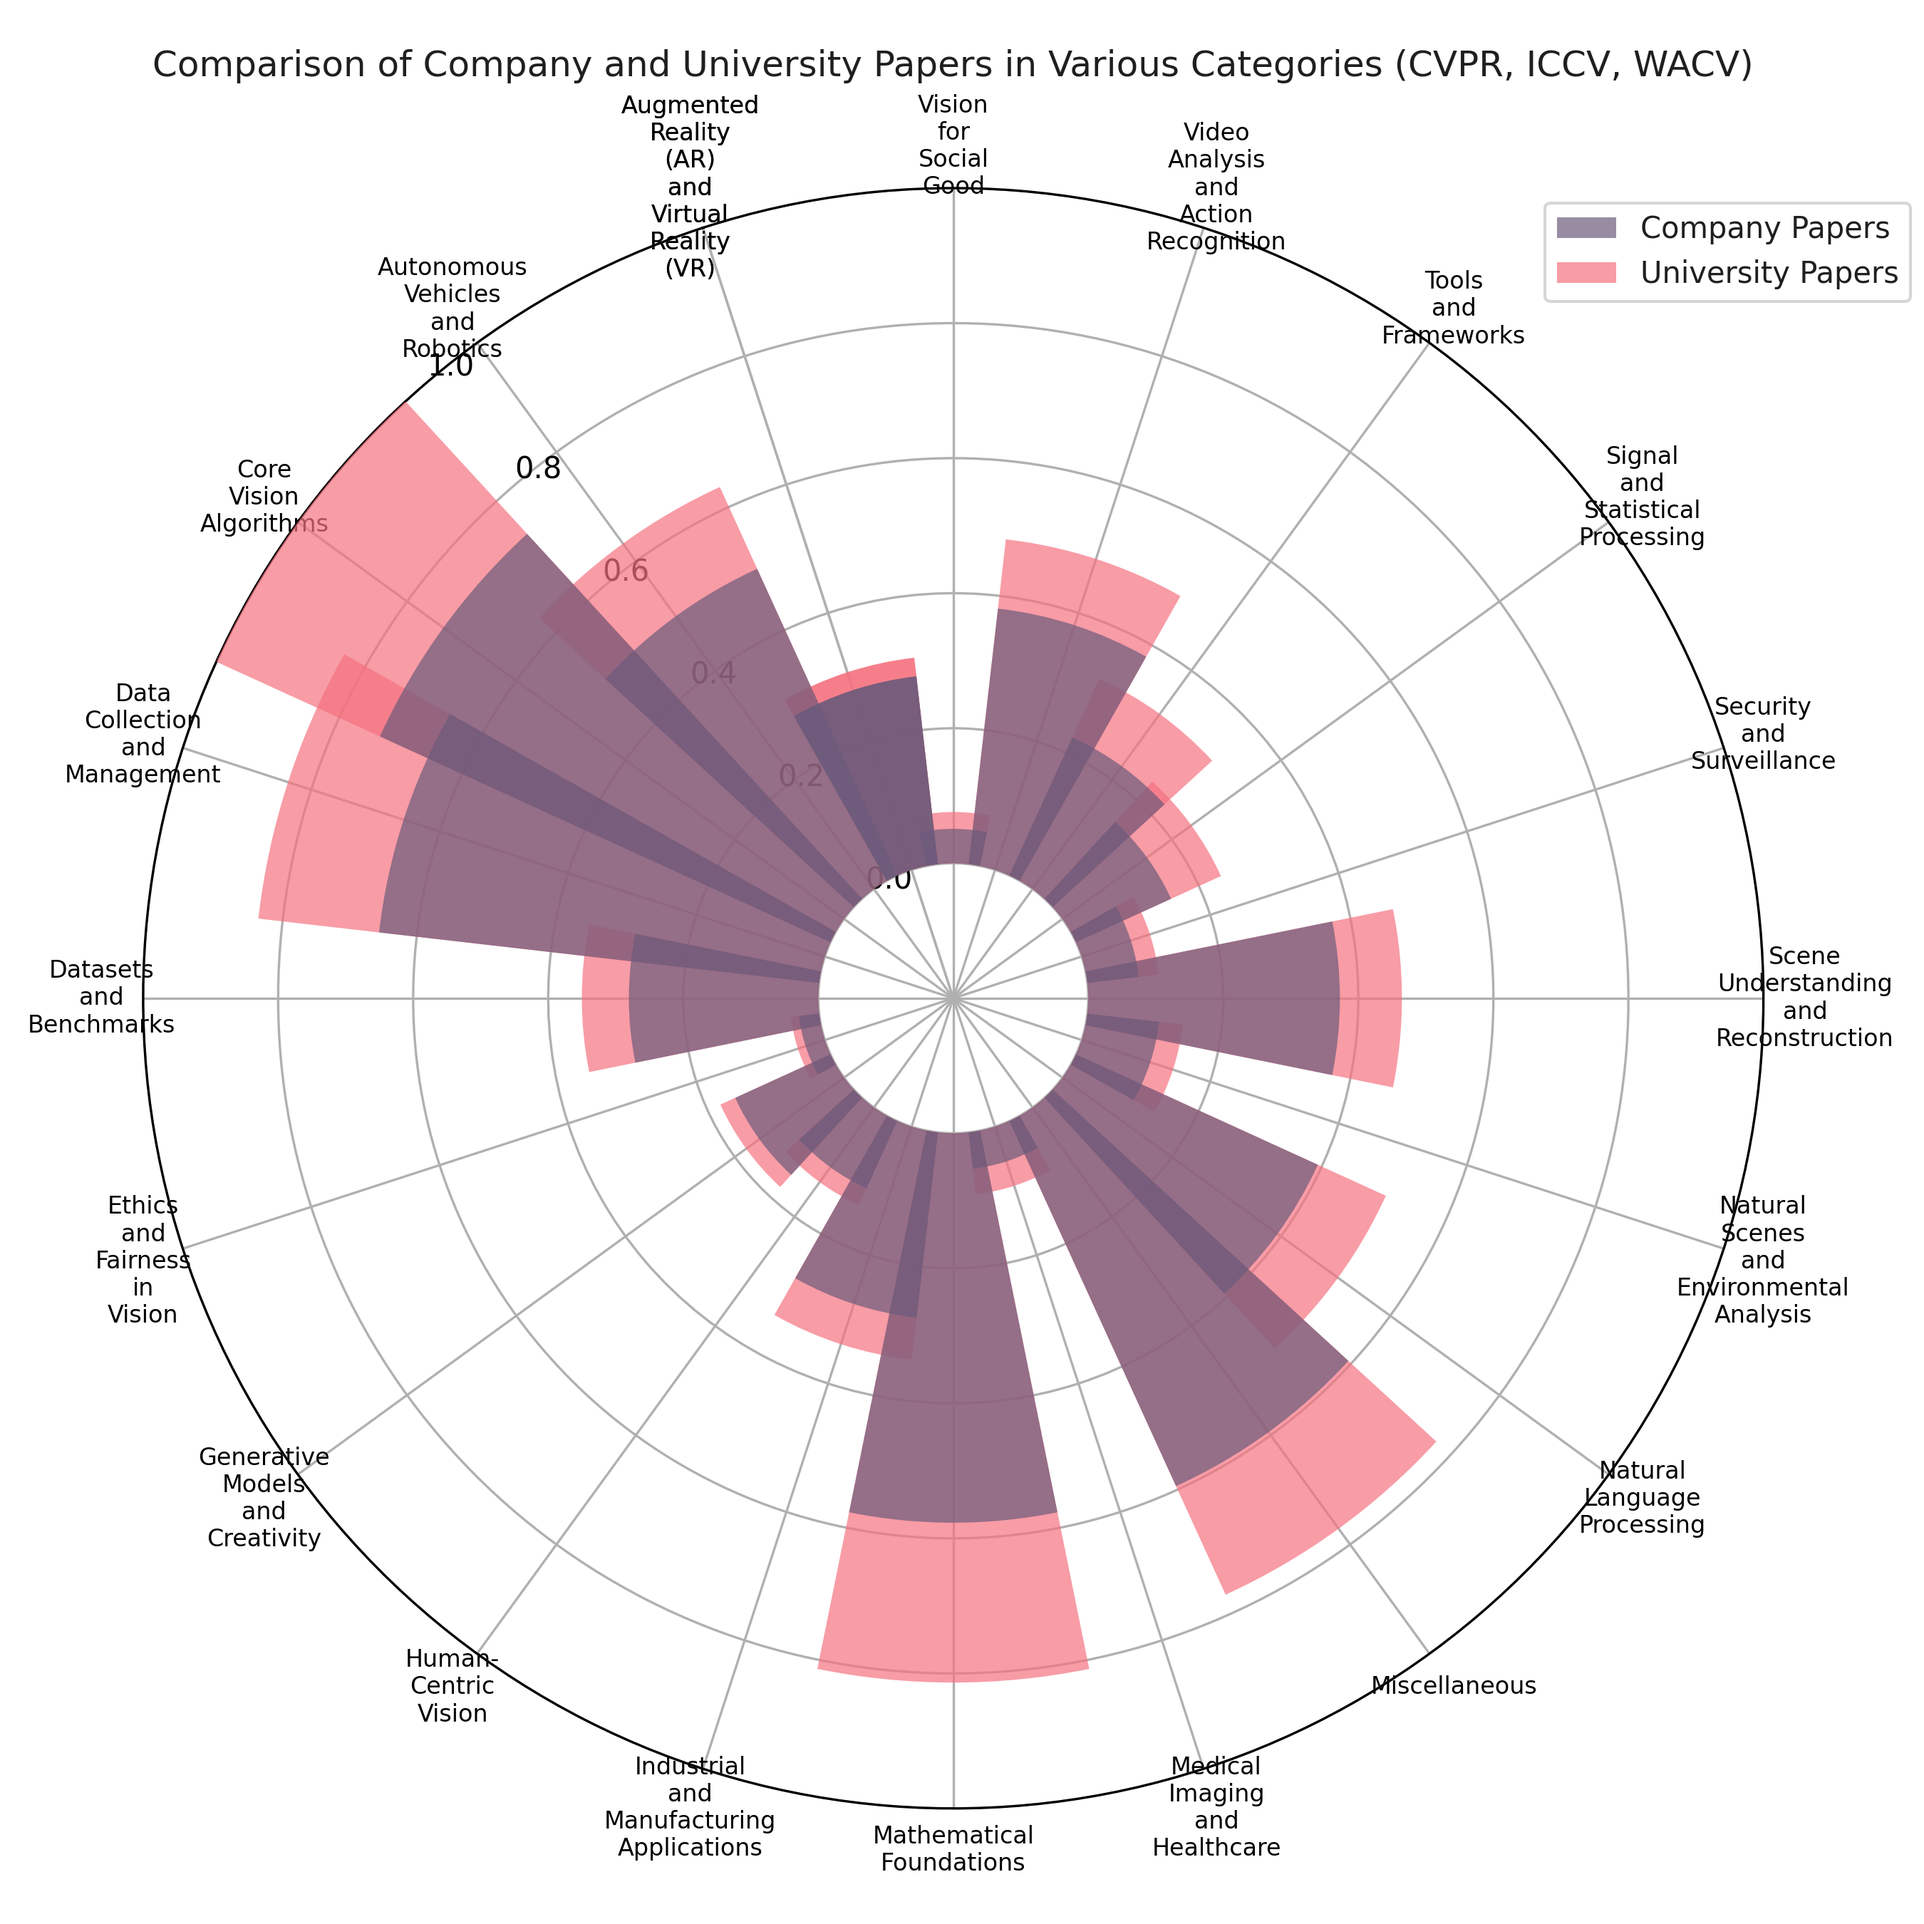
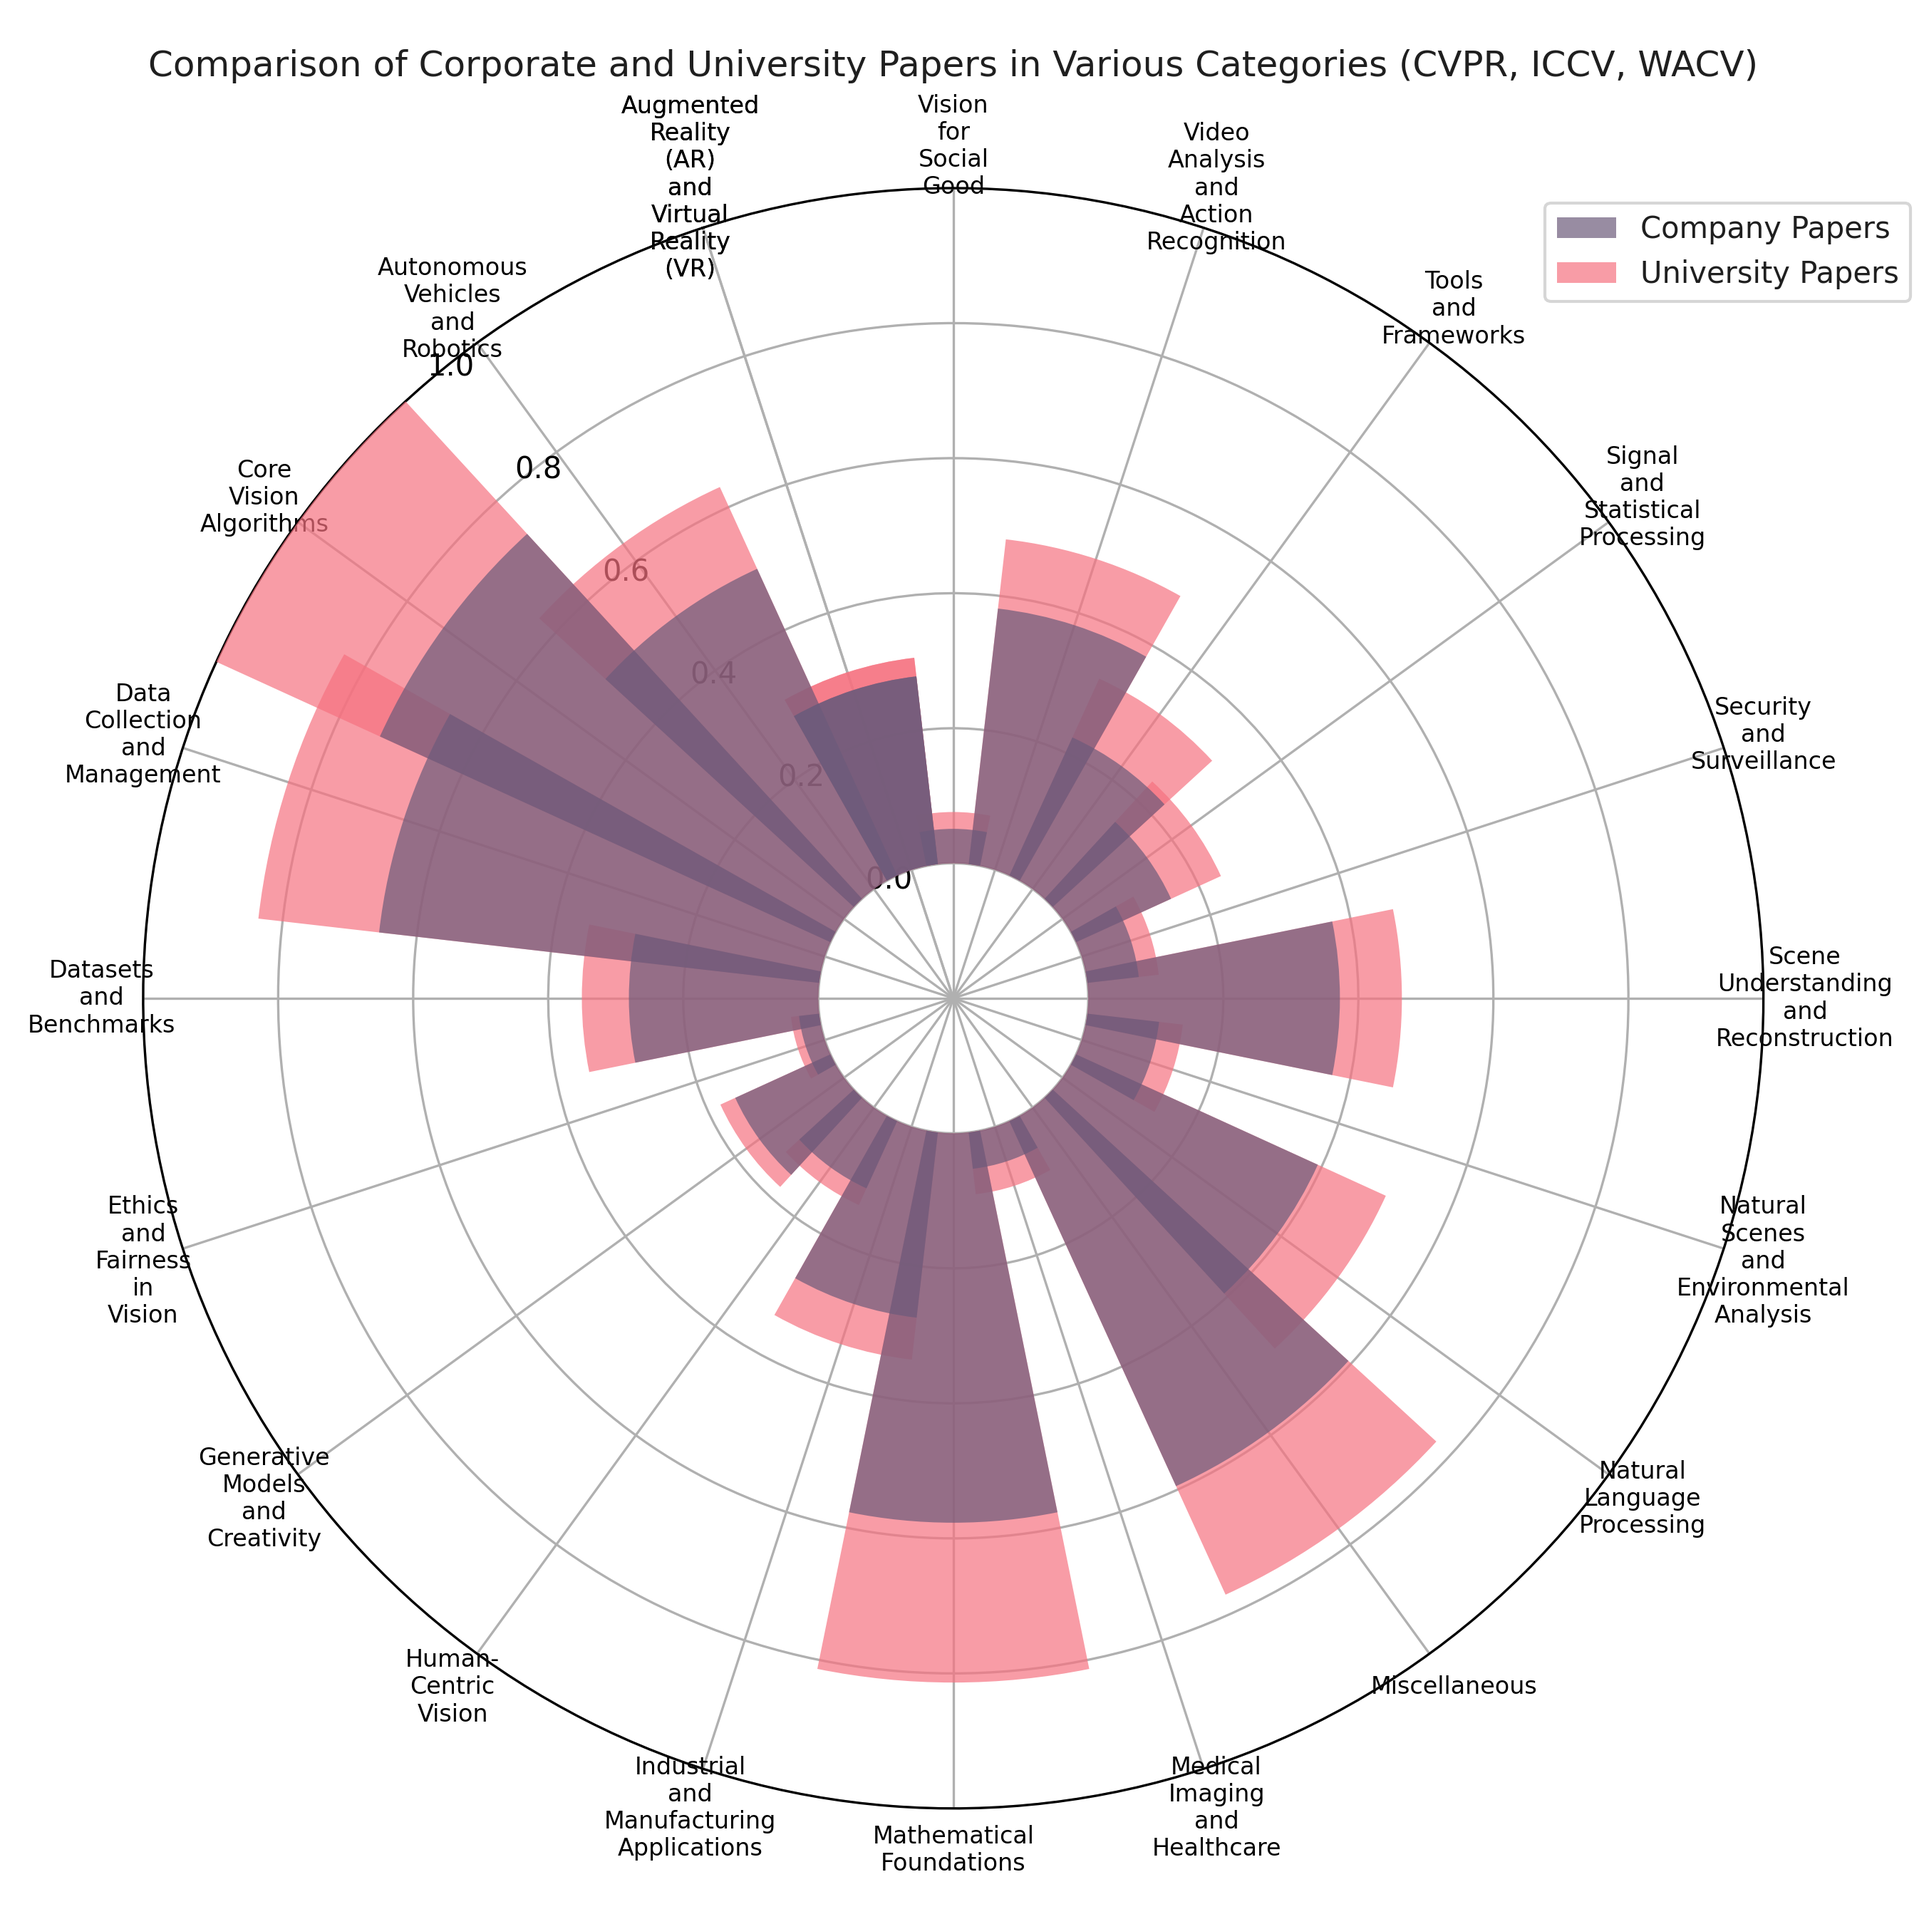
Radial plot updated

Changed region(s): [[0.0933, 0.0, 0.9022, 0.0622]]

diff --git a/src/radial_chart.py b/src/radial_chart.py
@@ -74,7 +74,7 @@ ax.set_xticklabels(wrapped_categories, size=8)  # Reduce size of labels to 8
 # Add a legend with reduced font size
 ax.legend(loc='upper right', bbox_to_anchor=(1.1, 1), fontsize=10)  # Reduce font size of the legend
 
-ax.set_title('Comparison of Company and University Papers in Various Categories (CVPR, ICCV, WACV)', fontsize=12)
+ax.set_title('Comparison of Corporate and University Papers in Various Categories (CVPR, ICCV, WACV)', fontsize=12)
 
 # Show the plot
 plt.tight_layout()
